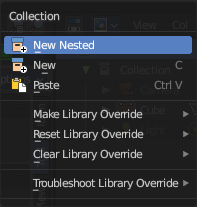
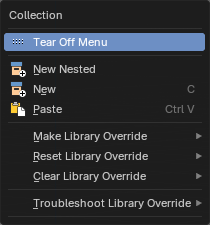
Outliner: New adds to the Scene Collection, New Nested inside #1728
Since week 45, New always adds to the Scene Collection and New Nested
adds inside the selected collection. Rewrites both entries in menu
order and refreshes both Collection menu captures.

diff --git a/docs2/content/editors/outliner.md b/docs2/content/editors/outliner.md
@@ -251,15 +251,19 @@ Scenes, Collections, Objects, Brushes, Materials, Nodegroups and Worlds can be m
 
 ![Collection](/docs2/images/editors/outliner/collection-2.png)
 
-This menu appears when you right click at a collection. Clicking at a Scene collection will have not this much entries than licking at the Collection item lower in the hierarchy.
+This menu appears when you right click at a collection. The first picture shows the menu of a collection. Right clicking at the Scene Collection shows a shorter menu, the second picture.
 
-#### New Nested
-
-Create a new nested collection. There is no difference. Both gets added in the selected collection as a child, and the functionality is the same. Ask the Blender developers what they did here.
+There are two ways to add a collection. They differ in **where** the new collection goes.
 
 #### New
 
-Create a new scene collection.
+Adds a new collection directly to the **Scene Collection**, at the top of the hierarchy. It does not matter which collection you right clicked at. The New Collection button in the Outliner header does the same.
+
+#### New Nested
+
+Adds a new collection **inside the selected collection**, as its child. Use it to build a hierarchy, for example a "Props" collection inside "Set".
+
+> **Tip:** The C hotkey in the Outliner adds a collection like **New**. New Nested has no hotkey in the Bforartists keymap, so use this menu. (Blender has it on Shift C.)
 
 #### Duplicate Collection
 
